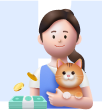
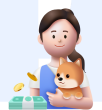
텍스트 수정 및 이미지 교체

diff --git a/html/펫보험/굿앤굿_보장내용.html b/html/펫보험/굿앤굿_보장내용.html
@@ -70,7 +70,7 @@
                             <ul class="key_val_list gap4 mt_16 pt_16 bortop_1">
                                 <li>
                                     <p class="fw_500">보상비율</p>
-                                    <p class="col_gray3">70% / 80%</p>
+                                    <p class="col_gray3">50% / 70% / 80% / 90%</p>
                                 </li>
                                 <li>
                                     <p class="fw_500">연간보상한도</p>
@@ -78,7 +78,11 @@
                                 </li>
                                 <li>
                                     <p class="fw_500">자기부담금</p>
-                                    <p class="col_gray3">3만원 / 5만원</p>
+                                    <p class="col_gray3">1만원 / 3만원 / 5만원</p>
+                                </li>
+                                <li>
+                                    <p class="fw_500">보험기간</p>
+                                    <p class="col_gray3">3년 / 5년</p>
                                 </li>
                                 <li>
                                     <p class="fw_500">면책기간</p>
@@ -112,7 +116,7 @@
                             <ul class="key_val_list gap4 mt_16 pt_16 bortop_1">
                                 <li>
                                     <p class="fw_500">보상비율</p>
-                                    <p class="col_gray3">70% / 80%</p>
+                                    <p class="col_gray3">50% / 70% / 80% / 90%</p>
                                 </li>
                                 <li>
                                     <p class="fw_500">연간보상한도</p>
@@ -120,7 +124,11 @@
                                 </li>
                                 <li>
                                     <p class="fw_500">자기부담금</p>
-                                    <p class="col_gray3">3만원 / 5만원</p>
+                                    <p class="col_gray3">1만원 / 3만원 / 5만원</p>
+                                </li>
+                                <li>
+                                    <p class="fw_500">보험기간</p>
+                                    <p class="col_gray3">3년 / 5년</p>
                                 </li>
                                 <li>
                                     <p class="fw_500">면책기간</p>
@@ -151,7 +159,7 @@
                             <ul class="key_val_list gap4 mt_16 pt_16 bortop_1">
                                 <li>
                                     <p class="fw_500">보상비율</p>
-                                    <p class="col_gray3">70% / 80%</p>
+                                    <p class="col_gray3">50% / 70% / 80% / 90%</p>
                                 </li>
                                 <li>
                                     <p class="fw_500">연간보상한도</p>
@@ -159,7 +167,11 @@
                                 </li>
                                 <li>
                                     <p class="fw_500">자기부담금</p>
-                                    <p class="col_gray3">3만원 / 5만원</p>
+                                    <p class="col_gray3">1만원 / 3만원 / 5만원</p>
+                                </li>
+                                <li>
+                                    <p class="fw_500">보험기간</p>
+                                    <p class="col_gray3">3년 / 5년</p>
                                 </li>
                                 <li>
                                     <p class="fw_500">면책기간</p>
@@ -189,7 +201,7 @@
                             <ul class="key_val_list gap4 mt_16 pt_16 bortop_1">
                                 <li>
                                     <p class="fw_500">보상비율</p>
-                                    <p class="col_gray3">70% / 80%</p>
+                                    <p class="col_gray3">50% / 70% / 80% / 90%</p>
                                 </li>
                                 <li>
                                     <p class="fw_500">연간보상한도</p>
@@ -197,11 +209,15 @@
                                 </li>
                                 <li>
                                     <p class="fw_500">자기부담금</p>
-                                    <p class="col_gray3">3만원 / 5만원</p>
+                                    <p class="col_gray3">1만원 / 3만원 / 5만원</p>
+                                </li>
+                                <li>
+                                    <p class="fw_500">보험기간</p>
+                                    <p class="col_gray3">3년 / 5년</p>
                                 </li>
                                 <li>
                                     <p class="fw_500">면책기간</p>
-                                    <p class="col_gray3">질병 90일</p>
+                                    <p class="col_gray3">질병 30일</p>
                                 </li>
                             </ul>
                         </div>
@@ -264,11 +280,7 @@
                                 <li>
                                     <p class="fw_500">연간보상한도</p>
                                     <p class="col_gray3">15만원</p>
-                                </li>
-                                <li>
-                                    <p class="fw_500">자기부담금</p>
-                                    <p class="col_gray3">5만원 / 10만원</p>
-                                </li>
+                                </li>                               
                                 <li>
                                     <p class="fw_500">면책기간</p>
                                     <p class="col_gray3">30일</p>
@@ -467,21 +479,21 @@
                         <div class="inner_white_box type05 mt_12">
                             <div class="dis_flex justify_between gap16">
                                 <img src="../../image/banner/pet_b_img_04.png" alt="" class="w_48">
-                                <p class="fs_14 fw_600 flex1 txt_left">보험 가입 반려견 사진<br/>(얼굴 사진, 옆면 전체 사진)</p>
+                                <p class="fs_14 fw_600 flex1 txt_left">보험 가입 반려견 사진<br/>(전면 사진, 측면 사진, 후면 사진)</p>
                             </div>
                         </div>
                         <div class="inner_white_box type06 mt_12">
                             <div class="dis_flex gap16">
                                 <img src="../../image/icon/printer_orange_icon.png" alt="" class="w_20">
-                                <p class="fs_14 fw_600">팩스 : 0505-988-5959</p>
+                                <p class="fs_14 fw_600">팩스 : 0507-774-6060</p>
                             </div>
                             <div class="dis_flex gap16 mt_8">
                                 <img src="../../image/icon/mail_orange_icon.png" alt="" class="w_20">
-                                <p class="fs_14 fw_600">이메일 : 1070@sejongcas.com</p>
+                                <p class="fs_14 fw_600">이메일 : hibs@hi.co.kr</p>
                             </div>
                             <div class="dis_flex gap16 mt_8">
                                 <img src="../../image/icon/phone_orange_icon.png" alt="" class="w_20">
-                                <p class="fs_14 fw_600">핸드폰 : 010-8248-7015</p>
+                                <p class="fs_14 fw_600">연락처 : 1588-5656</p>
                             </div>
                         </div>
                         <div class="inner_white_box type07 mt_12">

diff --git a/html/펫보험/하이펫_보장내용.html b/html/펫보험/하이펫_보장내용.html
@@ -137,7 +137,7 @@
                             <p class="fs_14 fw_600 col_gray2 mt_8">(단, 제3자의 재물 손해는 동물에 한함)</p>
                         </div>
                         <div class="inner_white_box type04 mt_12">
-                            <p class="fs_16 fw_500">당사가 제시한 설문서 작성으로<br/>간편한 보험 가입 가능</p>
+                            <p class="fs_16 fw_500">간편한 보험 가입</p>
                         </div>
                         <div class="inner_white_box type04 mt_12">
                             <p class="fs_16 fw_500">전국 모든 동물 병원 및 대학 동물 병원에<br/>상관없이 치료비 보상</p>
@@ -178,7 +178,7 @@
                         <div class="inner_white_box type05 mt_12">
                             <div class="dis_flex justify_between gap16">
                                 <img src="../../image/banner/pet_b_img_04.png" alt="" class="w_48">
-                                <p class="fs_14 fw_600 flex1 txt_left">보험 가입 반려견 사진<br/>(얼굴 사진, 옆면 전체 사진)</p>
+                                <p class="fs_14 fw_600 flex1 txt_left">보험 가입 반려견 사진<br/>(전면 사진, 측면 사진, 후면 사진)</p>
                             </div>
                         </div>
                         <div class="inner_white_box type06 mt_12">

diff --git a/html/펫보험/하이펫_상품안내.html b/html/펫보험/하이펫_상품안내.html
@@ -42,6 +42,7 @@
                     <p class="fs_15 fw_700 mt_20 col_orange">입통원 의료비 업계 최고</p>
                     <p class="fs_24 fw_600 mt_8">하루당 보상한도 100만원!</p>
                     <p class="fs_15 col_gray mt_6">자기부담금 1만원 제외 100만원 한도<br/>70%까지 실손 보상</p>
+                    <p class="fs_15 col_gray mt_6">진료, 검사, 치료만으로도 보장<br/>수술을 하지 않더라도 보장</p>
                 </div>
                 
                 <div class="txt_center mt_56">
@@ -52,8 +53,8 @@
                     <p class="fs_15 fw_700 mt_20 col_orange">순수보장형으로 합리적인</p>
                     <p class="fs_24 fw_600 mt_8">보험료로 최대<br/>최대 1천만원까지 보상!</p>
                     <p class="fs_15 col_gray mt_6">
-                        저축보험료가 부가된 장기보험이 아니라 합리적인<br/>
-                        월 보험료, <b>만2세 기준 45,900원</b>
+                        적립보험료가 부가된 장기보험이 아니라 합리적인<br/>
+                        보장보험료만, <b>만2세 기준 45,090원</b>
                     </p>
                 </div>
 

diff --git a/html/펫보험/굿앤굿_상담신청.html b/html/펫보험/굿앤굿_상담신청.html
@@ -70,9 +70,10 @@
 <pre class="inner_gray_box">
 가입상담문의 응대를 위한 개인(신용)정보 처리 상세 동의서
 
- ㅁ 수집,이용에 관한 사항
- 수집목적: 상품,서비스소개,홍보및판매
- 보유 및 이용기간: 동의일로부터 1년 또는 동의 철회 시까지 거부 권리 및 불이익: 귀하는 아래 개인(신용)정보 수집·이용에 관한 동의를 거부하실 수 있습니다. 다만, 동의하지 않으실
+ㅁ 수집,이용에 관한 사항
+수집목적: 상품,서비스소개,홍보및판매
+보유 및 이용기간: 동의일로부터 1년 또는 동의 철회 시까지
+거부 권리 및 불이익: 귀하는 아래 개인(신용)정보 수집·이용에 관한 동의를 거부하실 수 있습니다. 다만, 동의하지 않으실
 </pre>
                     </div>
                 </div>

diff --git a/html/펫보험/하이펫_상담신청.html b/html/펫보험/하이펫_상담신청.html
@@ -70,9 +70,10 @@
 <pre class="inner_gray_box">
 가입상담문의 응대를 위한 개인(신용)정보 처리 상세 동의서
 
- ㅁ 수집,이용에 관한 사항
- 수집목적: 상품,서비스소개,홍보및판매
- 보유 및 이용기간: 동의일로부터 1년 또는 동의 철회 시까지 거부 권리 및 불이익: 귀하는 아래 개인(신용)정보 수집·이용에 관한 동의를 거부하실 수 있습니다. 다만, 동의하지 않으실
+ㅁ 수집,이용에 관한 사항
+수집목적: 상품,서비스소개,홍보및판매
+보유 및 이용기간: 동의일로부터 1년 또는 동의 철회 시까지
+거부 권리 및 불이익: 귀하는 아래 개인(신용)정보 수집·이용에 관한 동의를 거부하실 수 있습니다. 다만, 동의하지 않으실
 </pre>
                     </div>
                 </div>
